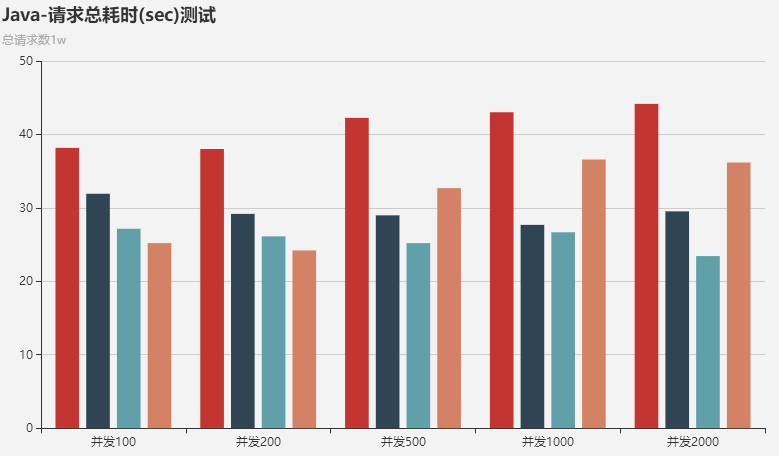
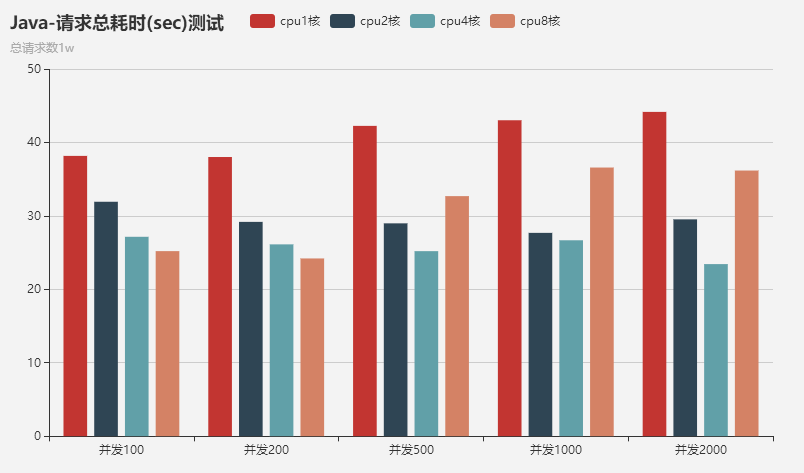
update #img

diff --git a/eminoda.github.io/source/_posts/2018-11-08-pressure-test-node-java/java.html b/eminoda.github.io/source/_posts/2018-11-08-pressure-test-node-java/java.html
@@ -19,6 +19,7 @@ var dom = document.getElementById("container");
 var myChart = echarts.init(dom);
 var app = {};
 option = null;
+
 app.title = '堆叠柱状图';
 
 function titleDesc(){
@@ -50,7 +51,7 @@ option = {
         }
     },
     legend: {
-        data:['请求总耗时(sec)','单个请求平均耗时(ms)','平均温度']
+        data:['cpu1核','cpu2核','cpu4核','cpu8核']
     },
     grid: {
         left: '3%',
@@ -71,28 +72,27 @@ option = {
     ],
     series : [
         {
-            name:'node 1核',
+            name:'cpu1核',
             type:'bar',
             data:xAxisData(cpu1)
         },
         {
-            name:'node 2核',
+            name:'cpu2核',
             type:'bar',
             data:xAxisData(cpu2)
         },
         {
-            name:'node 4核',
+            name:'cpu4核',
             type:'bar',
             data:xAxisData(cpu4)
         },
         {
-            name:'node 8核',
+            name:'cpu8核',
             type:'bar',
             data:xAxisData(cpu8)
         }
     ]
-};
-;
+};;
 if (option && typeof option === "object") {
     myChart.setOption(option, true);
 }

diff --git a/eminoda.github.io/source/_posts/2018-11-08-pressure-test-node-java/node.html b/eminoda.github.io/source/_posts/2018-11-08-pressure-test-node-java/node.html
@@ -50,7 +50,7 @@ option = {
         }
     },
     legend: {
-        data:['请求总耗时(sec)','单个请求平均耗时(ms)']
+        data:['cpu1核','cpu2核','cpu4核','cpu8核']
     },
     grid: {
         left: '3%',
@@ -71,28 +71,27 @@ option = {
     ],
     series : [
         {
-            name:'node 1核',
+            name:'cpu1核',
             type:'bar',
             data:xAxisData(cpu1)
         },
         {
-            name:'node 2核',
+            name:'cpu2核',
             type:'bar',
             data:xAxisData(cpu2)
         },
         {
-            name:'node 4核',
+            name:'cpu4核',
             type:'bar',
             data:xAxisData(cpu4)
         },
         {
-            name:'node 8核',
+            name:'cpu8核',
             type:'bar',
             data:xAxisData(cpu8)
         }
     ]
-};
-;
+};;
 if (option && typeof option === "object") {
     myChart.setOption(option, true);
 }

diff --git a/eminoda.github.io/source/_posts/2018-11-08-pressure-test-node-java/java-node.html b/eminoda.github.io/source/_posts/2018-11-08-pressure-test-node-java/java-node.html
@@ -19,7 +19,6 @@ var dom = document.getElementById("container");
 var myChart = echarts.init(dom);
 var app = {};
 option = null;
-
 app.title = '堆叠柱状图';
 
 function titleDesc(){
@@ -39,7 +38,7 @@ function xAxisData(cpu){
 
 option = {
     title: {
-        text: 'Java&Node（满核）-请求总耗时(sec)测试',
+        text: '满核下Java&Node-请求总耗时(sec)测试',
         subtext:'总请求数1w'
     },
     tooltip : {
@@ -49,7 +48,8 @@ option = {
         }
     },
     legend: {
-        data:['请求总耗时(sec)','单个请求平均耗时(ms)','平均温度']
+        left: 'right',
+        data:['java','node']
     },
     grid: {
         left: '3%',
@@ -79,7 +79,7 @@ option = {
             data:xAxisData(cpu8_node)
         }
     ]
-};;
+};;;
 if (option && typeof option === "object") {
     myChart.setOption(option, true);
 }
